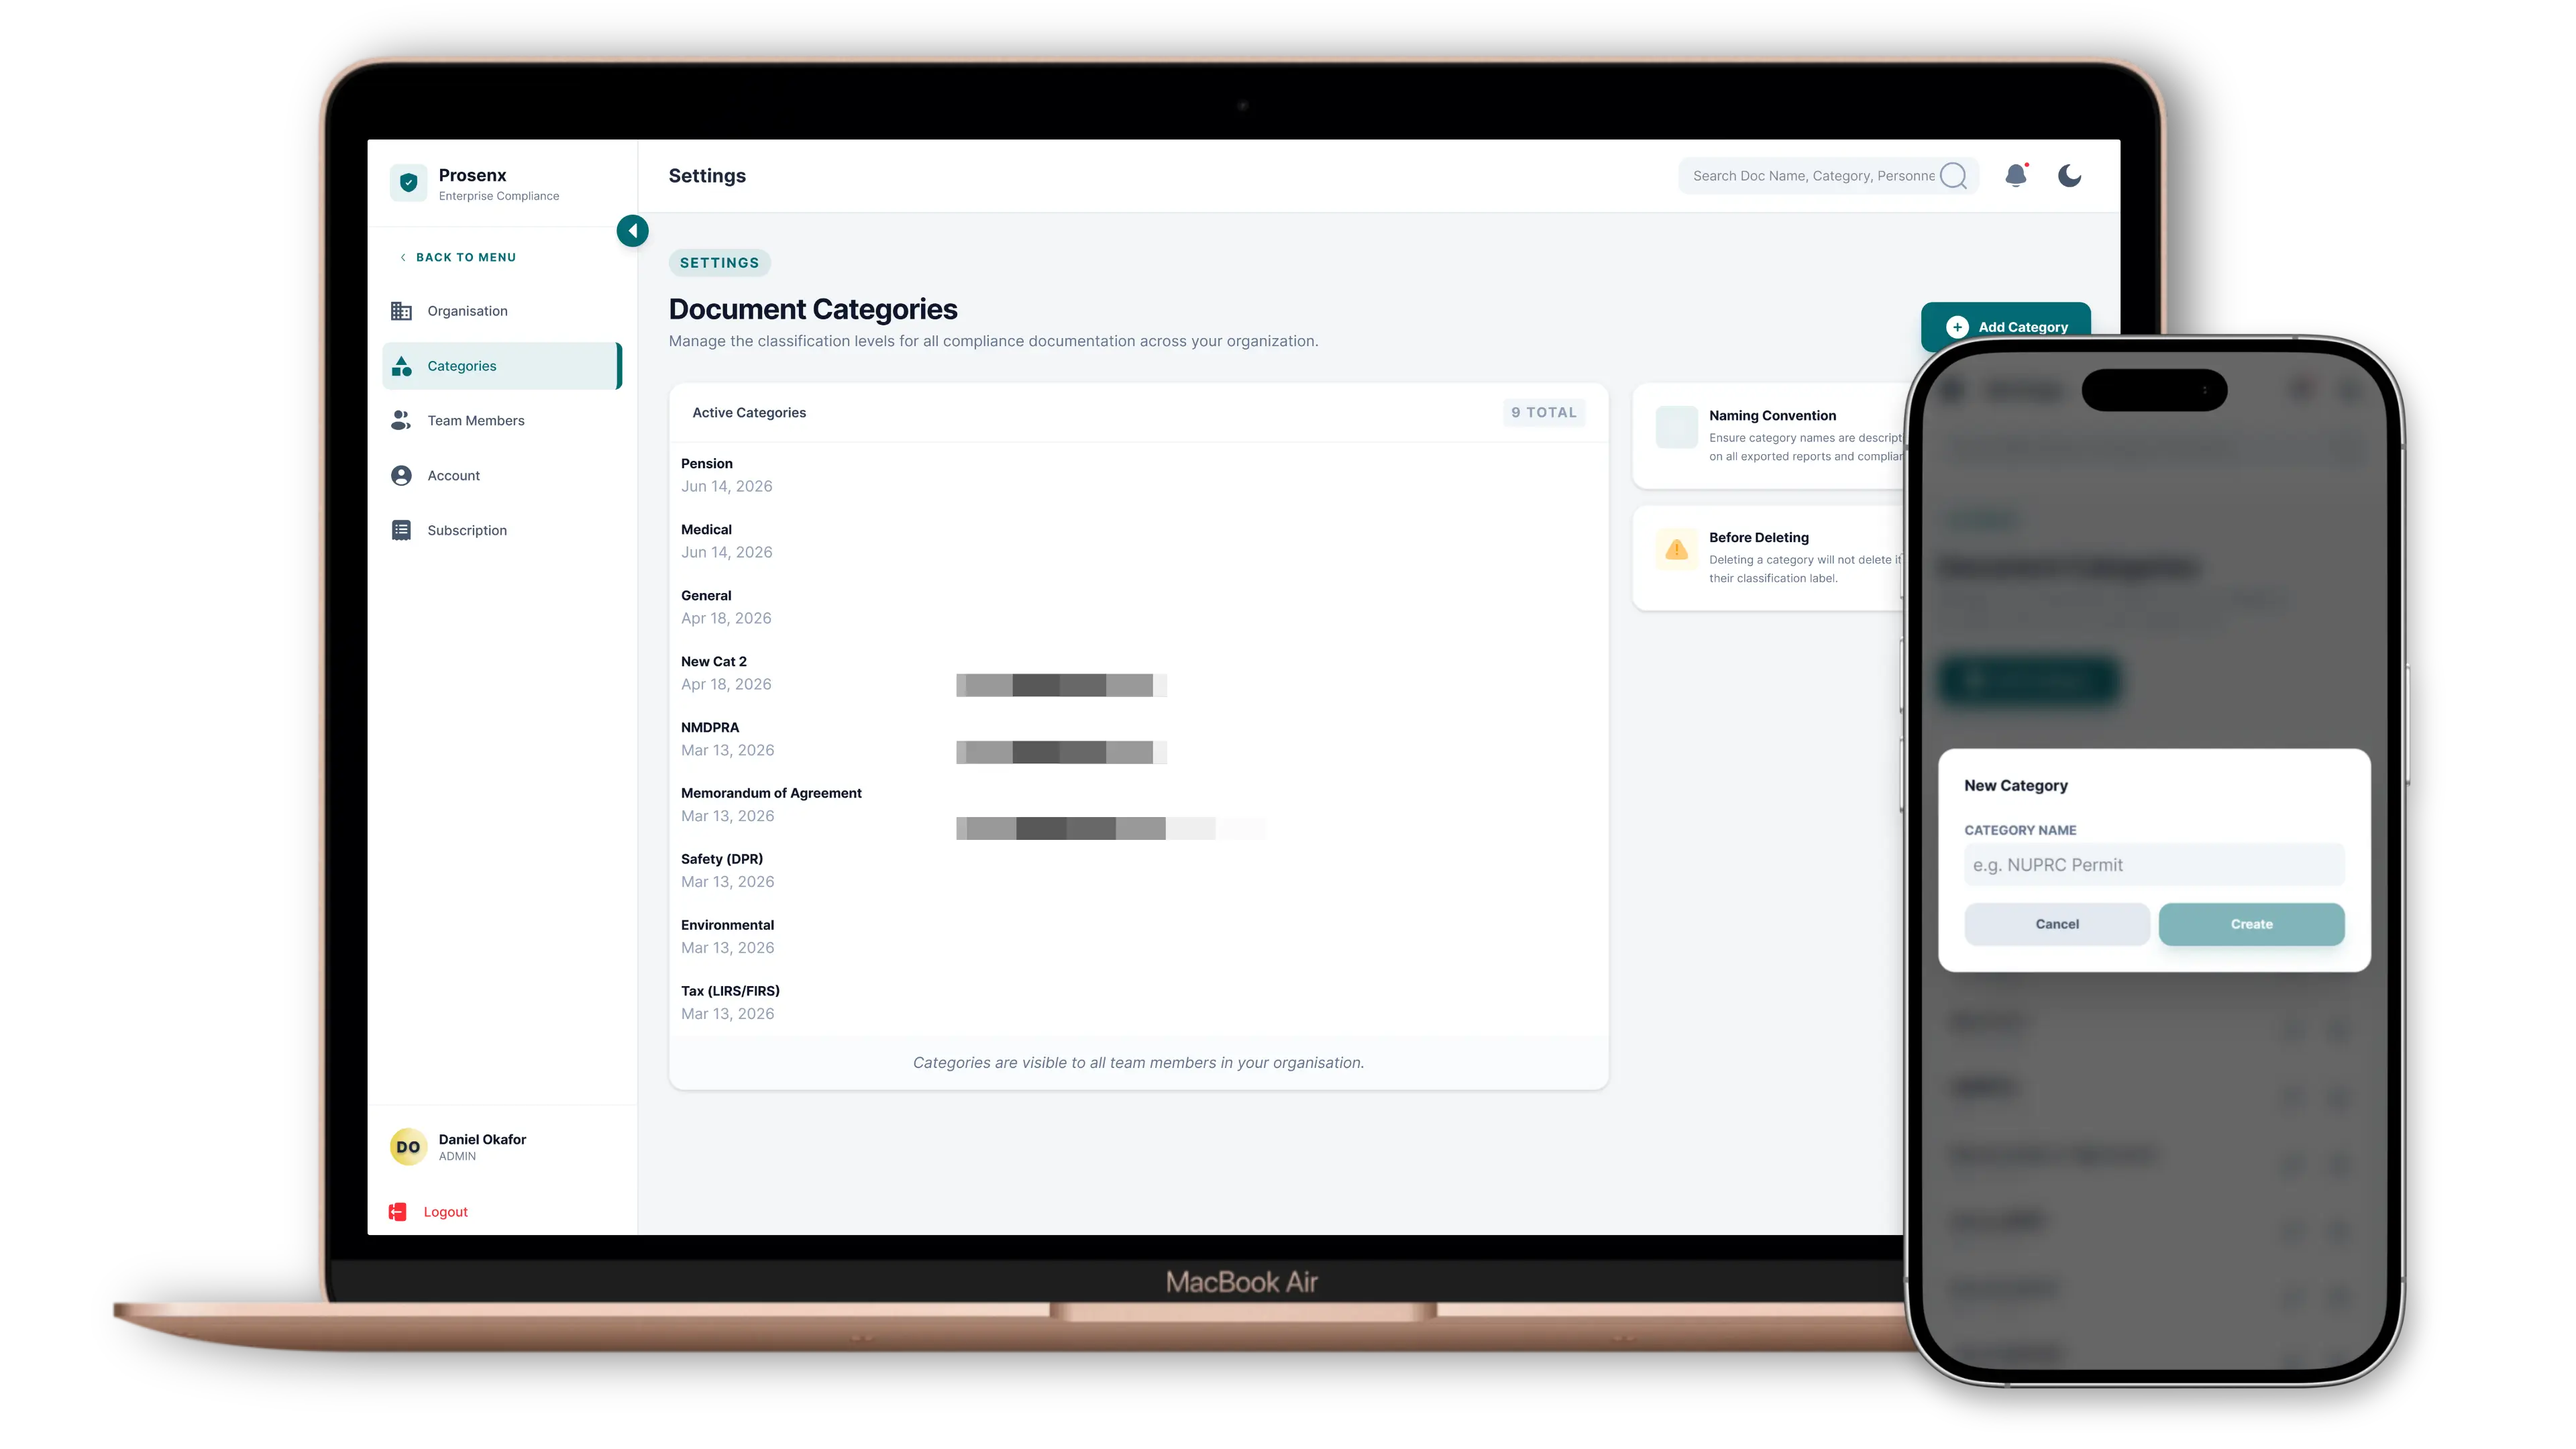
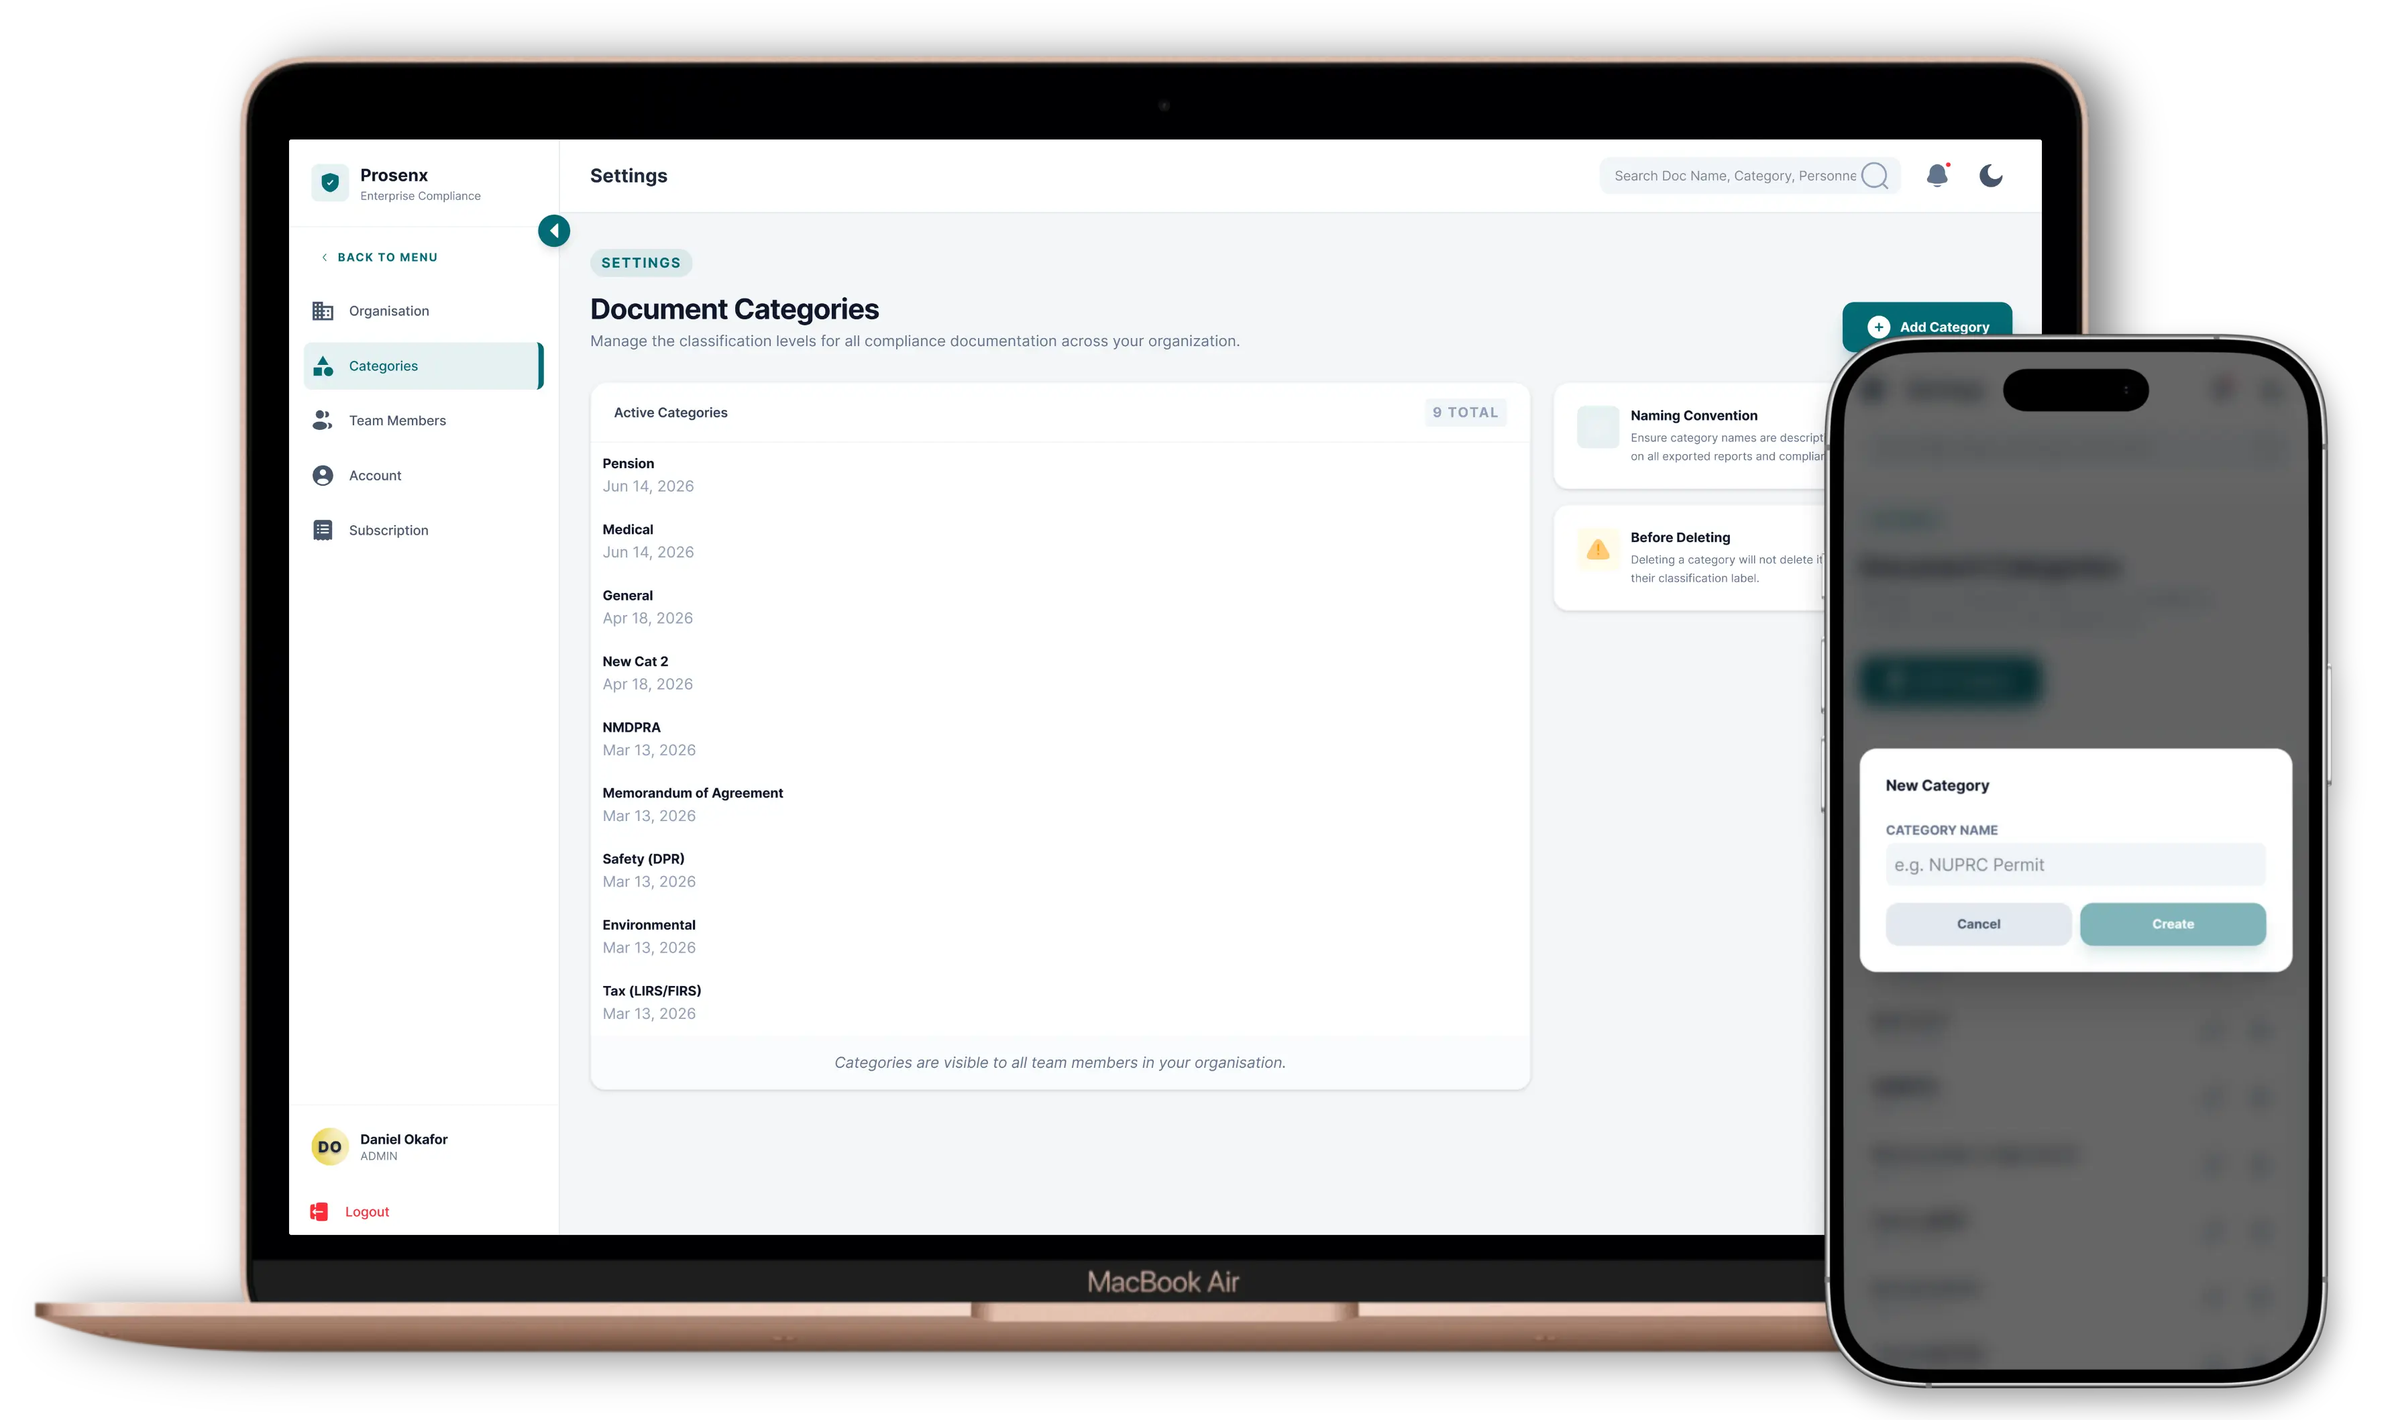
Image Change, Link and sitemap updates

diff --git a/contact.html b/contact.html
@@ -56,7 +56,7 @@
          <a href="./features.html" id="nav-features">Features</a>
          <a href="./pricing.html" id="nav-pricing">Pricing</a>
          <a href="./about.html" id="nav-about">About</a>
-         <a href="./contact.html" class="active" id="nav-contact">Contact</a>
+         <a href="#" class="active" id="nav-contact">Contact</a>
       </div>
 
       <div class="nav-actions">
@@ -75,7 +75,7 @@
       <a href="./features.html" onclick="toggleMobile()">Features</a>
       <a href="./pricing.html" onclick="toggleMobile()">Pricing</a>
       <a href="./about.html" onclick="toggleMobile()">About</a>
-      <a href="./contact.html" onclick="toggleMobile()">Contact</a>
+      <a href="#" onclick="toggleMobile()">Contact</a>
       <button class="btn-ghost" onclick="window.open('https://app.prosenx.com/login')">Sign in</button>
       <button class="btn-primary" onclick="window.open('https://app.prosenx.com/register')">Start free trial</button>
    </div>
@@ -248,14 +248,14 @@
                   <ul>
                      <li><a href="./features.html">Features</a></li>
                      <li><a href="./pricing.html">Pricing</a></li>
-                     <li><a href="./contact.html">Book a demo</a></li>
+                     <li><a href="#">Book a demo</a></li>
                   </ul>
                </div>
                <div class="footer-col">
                   <h5>Company</h5>
                   <ul>
                      <li><a href="./about.html">About</a></li>
-                     <li><a href="./contact.html">Contact</a></li>
+                     <li><a href="#">Contact</a></li>
                      <li><a href="./privacy.html">Privacy policy</a></li>
                      <li><a href="./terms.html">Terms of service</a></li>
                   </ul>

diff --git a/about.html b/about.html
@@ -74,7 +74,7 @@
          <a href="./index.html" id="nav-home">Home</a>
          <a href="./features.html" id="nav-features">Features</a>
          <a href="./pricing.html" id="nav-pricing">Pricing</a>
-         <a href="./about.html" class="active" id="nav-about">About</a>
+         <a href="#" class="active" id="nav-about">About</a>
          <a href="./contact.html" id="nav-contact">Contact</a>
       </div>
 
@@ -93,7 +93,7 @@
       <a href="./index.html" onclick="toggleMobile()">Home</a>
       <a href="./features.html" onclick="toggleMobile()">Features</a>
       <a href="./pricing.html" onclick="toggleMobile()">Pricing</a>
-      <a href="./about.html" onclick="toggleMobile()">About</a>
+      <a href="#" onclick="toggleMobile()">About</a>
       <a href="./contact.html" onclick="toggleMobile()">Contact</a>
       <button class="btn-ghost" onclick="window.open('https://app.prosenx.com/login')">Sign in</button>
       <button class="btn-primary" onclick="window.open('https://app.prosenx.com/register')">Start free trial</button>
@@ -229,7 +229,7 @@
                <div class="footer-col">
                   <h5>Company</h5>
                   <ul>
-                     <li><a href="./about.html">About</a></li>
+                     <li><a href="#">About</a></li>
                      <li><a href="./contact.html">Contact</a></li>
                      <li><a href="./privacy.html">Privacy policy</a></li>
                      <li><a href="./terms.html">Terms of service</a></li>

diff --git a/pricing.html b/pricing.html
@@ -65,7 +65,7 @@
       <div class="nav-links">
          <a href="./index.html" id="nav-home">Home</a>
          <a href="./features.html" id="nav-features">Features</a>
-         <a href="./pricing.html" class="active" id="nav-pricing">Pricing</a>
+         <a href="#" class="active" id="nav-pricing">Pricing</a>
          <a href="./about.html" id="nav-about">About</a>
          <a href="./contact.html" id="nav-contact">Contact</a>
       </div>
@@ -84,7 +84,7 @@
    <div class="mobile-menu" id="mobile-menu">
       <a href="./index.html" onclick="toggleMobile()">Home</a>
       <a href="./features.html" onclick="toggleMobile()">Features</a>
-      <a href="./pricing.html" onclick="toggleMobile()">Pricing</a>
+      <a href="#" onclick="toggleMobile()">Pricing</a>
       <a href="./about.html" onclick="toggleMobile()">About</a>
       <a href="./contact.html" onclick="toggleMobile()">Contact</a>
       <button class="btn-ghost" onclick="window.open('https://app.prosenx.com/login')">Sign in</button>
@@ -355,7 +355,7 @@
                   <h5>Product</h5>
                   <ul>
                      <li><a href="./features.html">Features</a></li>
-                     <li><a href="./pricing.html">Pricing</a></li>
+                     <li><a href="#">Pricing</a></li>
                      <li><a href="./contact.html">Book a demo</a></li>
                   </ul>
                </div>

diff --git a/index.html b/index.html
@@ -81,10 +81,10 @@
 <body>
    <!-- ── Navigation ── -->
    <nav id="main-nav">
-      <a href="./index.html" class="nav-logo">Prosen<span>x</span></a>
+      <a href="#" class="nav-logo">Prosen<span>x</span></a>
 
       <div class="nav-links">
-         <a href="./index.html" class="active" id="nav-home">Home</a>
+         <a href="#" class="active" id="nav-home">Home</a>
          <a href="./features.html" id="nav-features">Features</a>
          <a href="./pricing.html" id="nav-pricing">Pricing</a>
          <a href="./about.html" id="nav-about">About</a>
@@ -103,7 +103,7 @@
 
    <!-- Mobile menu -->
    <div class="mobile-menu" id="mobile-menu">
-      <a href="./index.html" onclick="toggleMobile()">Home</a>
+      <a href="#" onclick="toggleMobile()">Home</a>
       <a href="./features.html" onclick="toggleMobile()">Features</a>
       <a href="./pricing.html" onclick="toggleMobile()">Pricing</a>
       <a href="./about.html" onclick="toggleMobile()">About</a>
